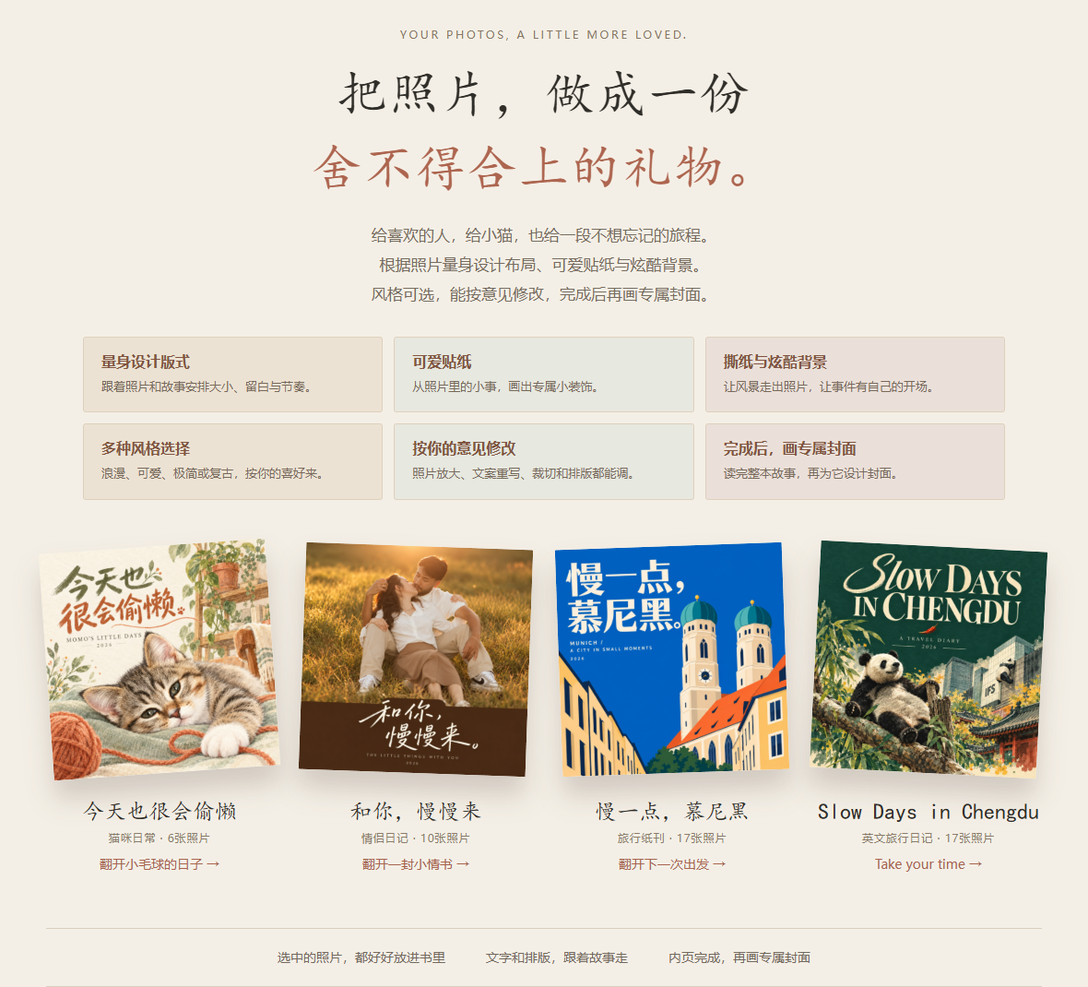
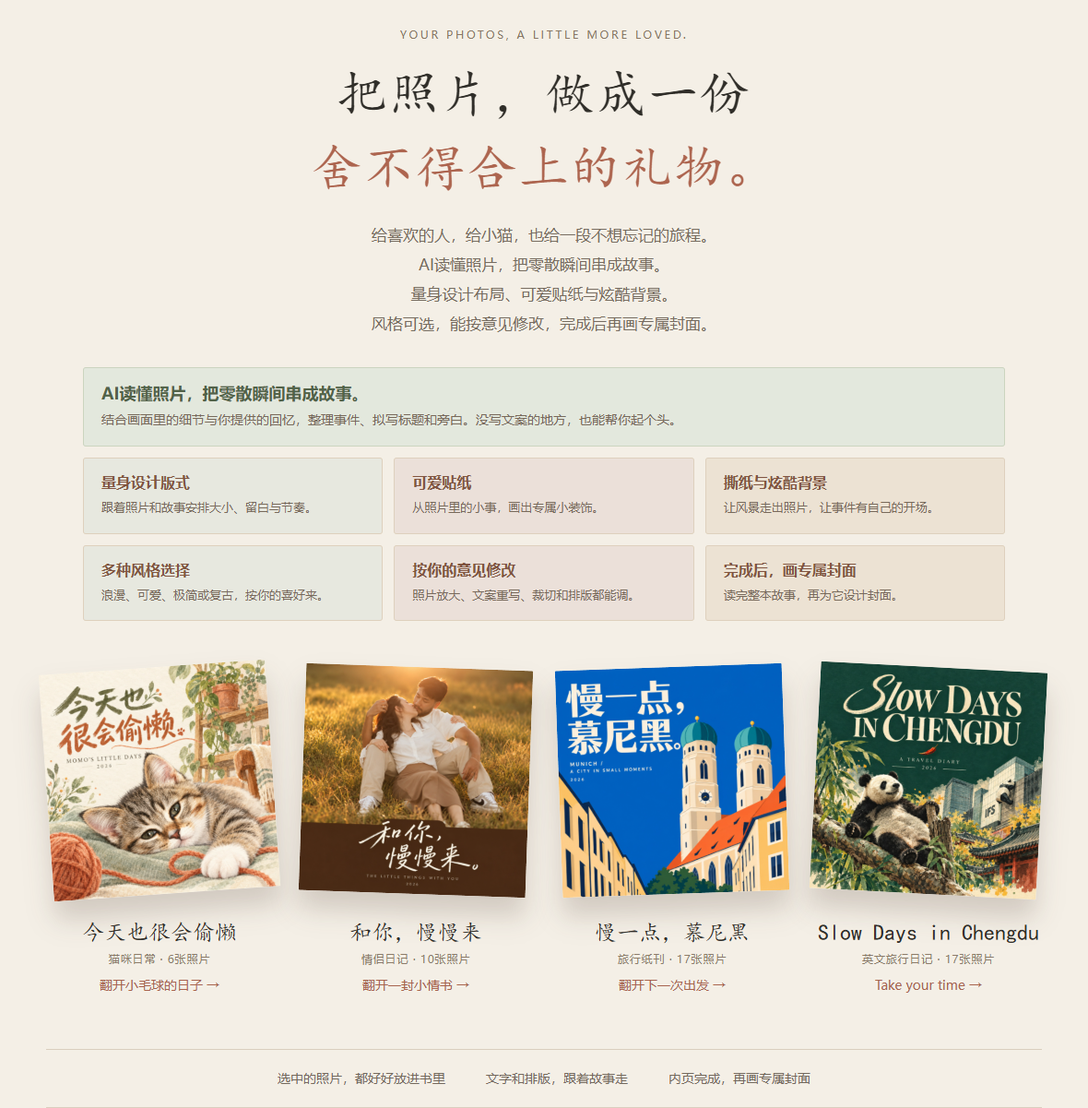
Highlight AI photo reading and story writing

diff --git a/docs/index.html b/docs/index.html
@@ -1,2 +1,2 @@
 <!doctype html><html lang="zh-CN"><head><meta charset="utf-8"><meta name="viewport" content="width=device-width,initial-scale=1"><title>Photo Book Studio · 照片进来，故事成册</title><style>
-*{box-sizing:border-box}html{scroll-behavior:smooth}body{margin:0;color:#302e29;background:#f4efe6;font-family:system-ui,"Microsoft YaHei",sans-serif}a{color:inherit;text-decoration:none}header{max-width:1200px;margin:auto;padding:28px 30px;display:flex;justify-content:space-between;align-items:center;font-size:14px}.brand{font-family:Georgia,serif;font-size:21px;letter-spacing:.025em}.nav{display:flex;gap:26px}.hero{max-width:1180px;margin:auto;padding:30px 28px 0;text-align:center}.eyebrow{font-size:12px;letter-spacing:.22em;color:#887663}.hero h1{font-family:"KaiTi","STKaiti",serif;font-size:clamp(34px,4vw,55px);font-weight:500;line-height:1.45;letter-spacing:.02em;margin:17px 0}.hero h1 em{font-style:normal;color:#ad654f}.hero p{font-size:17px;line-height:1.9;color:#766c60;margin:0}.shelf{display:grid;grid-template-columns:repeat(4,1fr);gap:32px;max-width:1140px;margin:50px auto 0;padding:0 22px 24px}.book{position:relative;transition:transform .3s}.book:hover{transform:translateY(-10px)}.book img{display:block;width:100%;aspect-ratio:1;object-fit:cover;box-shadow:0 20px 28px #47342933;border-radius:1px}.book:nth-child(1) img{transform:rotate(-4deg)}.book:nth-child(2) img{transform:rotate(2deg)}.book:nth-child(3) img{transform:rotate(-2deg)}.book:nth-child(4) img{transform:rotate(3deg)}.book h2{font-family:"KaiTi","STKaiti",serif;font-size:24px;font-weight:500;margin:28px 0 8px}.book small{display:block;color:#8b7b6a;font-size:12px;letter-spacing:.07em}.book .open{display:inline-block;font-size:14px;color:#a7634e;margin-top:12px}.statement{max-width:1080px;margin:36px auto 0;padding:22px 15px;border-top:1px solid #dacebe;border-bottom:1px solid #dacebe;display:flex;justify-content:center;gap:44px;font-size:14px;color:#73695d}.section{max-width:1160px;margin:88px auto;padding:0 28px}.section h2{font-family:"KaiTi","STKaiti",serif;font-weight:500;font-size:34px;line-height:1.5;margin:0 0 12px}.section p{color:#817264;line-height:1.9;margin:0 0 30px}.spread{width:100%;display:block;box-shadow:0 15px 40px #4e3e2b18;margin:24px 0 12px}.caption{font-size:13px;color:#8c7c69}.effects{display:grid;grid-template-columns:repeat(4,1fr);gap:20px}.effect{padding:12px;background:#eee4d6;border:1px solid #e2d6c5}.effect img{width:100%;aspect-ratio:1;object-fit:contain;display:block}.effect h3{font-size:16px;font-weight:500;margin:16px 5px 6px}.effect small{font-family:Georgia,serif;color:#88705c;font-size:12px;margin:0 5px}.start{text-align:center;background:#e9dfd0;padding:45px 20px;border-radius:2px}.start code{display:block;max-width:800px;margin:24px auto;background:#f6f0e7;border:1px solid #d4c5b4;padding:20px;font-family:inherit;font-size:20px;line-height:1.7}.buttons{display:flex;justify-content:center;gap:16px}.button{padding:13px 24px;border:1px solid #8e6a56;border-radius:30px;color:#805a43;font-size:14px}.button.primary{background:#8e5e49;color:#fff7ee;border-color:#8e5e49}footer{max-width:1060px;margin:60px auto 0;padding:0 28px 35px;color:#8a7b6c;font-size:12px;line-height:1.9;text-align:center}a:focus-visible{outline:2px solid #b76b52;outline-offset:5px}@media(max-width:760px){header{padding:22px 20px}.nav{gap:16px;font-size:12px}.shelf{grid-template-columns:repeat(2,1fr);gap:30px 24px;margin-top:35px;padding:0 8px}.book h2{font-size:16px;margin-top:20px}.book small{font-size:10px;letter-spacing:0}.book .open{font-size:12px}.statement{gap:14px;flex-wrap:wrap;font-size:12px}.section{margin:58px auto;padding:0 18px}.effects{grid-template-columns:repeat(2,1fr);gap:12px}.hero{padding:20px 18px 0}.hero p{font-size:14px}.start code{font-size:16px}.buttons{flex-wrap:wrap}}.features{display:grid;grid-template-columns:repeat(3,1fr);gap:12px;max-width:1000px;margin:30px auto 0;text-align:left}.feature{background:#ece2d3;border:1px solid #ded0bd;padding:16px 19px;border-radius:3px}.feature strong{display:block;font-size:16px;font-weight:600;color:#805440;margin-bottom:6px}.feature span{font-size:13px;color:#77695a;line-height:1.7}.features .feature:nth-child(2),.features .feature:nth-child(5){background:#e7e8df}.features .feature:nth-child(3),.features .feature:nth-child(6){background:#ebe0d9}@media(max-width:760px){.features{grid-template-columns:repeat(2,1fr);gap:9px;margin-top:24px}.feature{padding:13px 12px}.feature strong{font-size:14px}.feature span{font-size:12px}}</style></head><body><header><a class="brand" href="index.html">Photo Book Studio</a><nav class="nav"><a href="#books">看相册</a><a href="#effects">看创意</a><a href="https://github.com/strivekboy-coder/photo-book-studio">GitHub ↗</a></nav></header><main><section class="hero" id="books"><div class="eyebrow">YOUR PHOTOS, A LITTLE MORE LOVED.</div><h1>把照片，做成一份<br><em>舍不得合上的礼物。</em></h1><p>给喜欢的人，给小猫，也给一段不想忘记的旅程。<br>根据照片量身设计布局、可爱贴纸与炫酷背景。<br>风格可选，能按意见修改，完成后再画专属封面。</p><div class="features" aria-label="Photo Book Studio 的六个特色"><div class="feature"><strong>量身设计版式</strong><span>跟着照片和故事安排大小、留白与节奏。</span></div><div class="feature"><strong>可爱贴纸</strong><span>从照片里的小事，画出专属小装饰。</span></div><div class="feature"><strong>撕纸与炫酷背景</strong><span>让风景走出照片，让事件有自己的开场。</span></div><div class="feature"><strong>多种风格选择</strong><span>浪漫、可爱、极简或复古，按你的喜好来。</span></div><div class="feature"><strong>按你的意见修改</strong><span>照片放大、文案重写、裁切和排版都能调。</span></div><div class="feature"><strong>完成后，画专属封面</strong><span>读完整本故事，再为它设计封面。</span></div></div><div class="shelf"><a class="book" href="showcase/cat/index.html"><img src="showcase/cat/cover.jpg" alt="今天也很会偷懒：猫咪相册封面"><h2>今天也很会偷懒</h2><small>猫咪日常 · 6张照片</small><span class="open">翻开小毛球的日子 →</span></a><a class="book" href="showcase/couple/index.html"><img src="showcase/couple/cover.jpg" alt="和你慢慢来：情侣相册封面"><h2>和你，慢慢来</h2><small>情侣日记 · 10张照片</small><span class="open">翻开一封小情书 →</span></a><a class="book" href="showcase/munich/index.html"><img src="showcase/munich/cover.jpg" alt="慢一点慕尼黑：旅行相册封面"><h2>慢一点，慕尼黑</h2><small>旅行纸刊 · 17张照片</small><span class="open">翻开下一次出发 →</span></a><a class="book" href="showcase/chengdu/index.html"><img src="showcase/chengdu/cover.jpg" alt="Slow Days in Chengdu：英文成都旅行日记封面"><h2>Slow Days in Chengdu</h2><small>英文旅行日记 · 17张照片</small><span class="open">Take your time →</span></a></div><div class="statement"><span>选中的照片，都好好放进书里</span><span>文字和排版，跟着故事走</span><span>内页完成，再画专属封面</span></div></section><section class="section"><div class="eyebrow">LITTLE DAYS, BEAUTIFULLY KEPT.</div><h2>有大图，也有小小的日常。</h2><p>留白、竖排、拼贴、旁白和手绘贴纸，让每一段故事有自己的表情。</p><a href="showcase/cat/index.html"><img class="spread" src="showcase/cat/spread-03.jpg" alt="猫咪日常的照片、批注和贴纸排版" loading="lazy"></a><div class="caption">一个哈欠，一次巡逻，也值得认真留一页。</div><a href="showcase/couple/index.html"><img class="spread" src="showcase/couple/spread-04.jpg" alt="情侣日常：回家的路和金色拥抱" loading="lazy"></a><div class="caption">一起坐车、一起发呆，把普通的日子写成喜欢的样子。</div></section><section class="section" id="effects"><div class="eyebrow">FOUR WAYS TO KEEP A FEELING.</div><h2>照片之外，还能留住一点感觉。</h2><p>只在合适的地方，加一页特别的。四种创意路线，已经用在上面的相册里。</p><div class="effects"><a class="effect" href="showcase/cat/index.html?page=1&amp;side=right"><img src="showcase/effects/minimal.jpg" alt="极简纸刊：Busy doing nothing" loading="lazy"><h3>给一个哈欠留白</h3><small>Minimal Zine Poster</small></a><a class="effect" href="showcase/couple/index.html?page=2&amp;side=right"><img src="showcase/effects/editorial.jpg" alt="忠实照片加抽象记忆面板" loading="lazy"><h3>把牵手变成记忆</h3><small>Photo Abstract Editorial</small></a><a class="effect" href="showcase/munich/index.html?page=4&amp;side=right"><img src="showcase/effects/gathered.jpg" alt="冲浪照片和撕纸插画结构" loading="lazy"><h3>让风景走出照片</h3><small>Gathered Scenes</small></a><a class="effect" href="showcase/munich/index.html?page=6&amp;side=right"><img src="showcase/effects/postcard.jpg" alt="照片衍生双面旅行明信片" loading="lazy"><h3>寄给下一次出发</h3><small>Photo to Zine Postcard</small></a></div></section><section class="section"><a href="showcase/munich/index.html"><img class="spread" src="showcase/munich/spread-05.jpg" alt="慕尼黑冲浪原照与撕纸插画相邻展示" loading="lazy"></a><div class="caption">原照留下真实，撕纸和插画把河流接着画下去。</div></section><section class="section"><a href="showcase/chengdu/index.html"><img class="spread" src="showcase/chengdu/spread-04.jpg" alt="成都英文旅行日记：熊猫原照与撕纸插画" loading="lazy"></a><div class="caption">No hurry here. 同一个skill，也能写一本英文旅行日记。</div></section><section class="section"><div class="eyebrow">BACKGROUNDS THAT BELONG TO THE STORY.</div><h2>照片可以变成背景，心里话也有位置。</h2><p>特别的事件，用一页撕纸背景打开。想写长一点，就留一页与故事有关的信纸。</p><a href="showcase/munich/index.html?page=3"><img class="spread" src="showcase/munich/spread-04.jpg" alt="冲浪事件照片变成整页撕纸背景" loading="lazy"></a><a href="showcase/chengdu/index.html?page=7"><img class="spread" src="showcase/chengdu/spread-08.jpg" alt="成都旅行故事背景上的长文结尾" loading="lazy"></a></section><section class="section"><div class="eyebrow">FROM A REAL PHOTO BOOK.</div><h2>真实的日子，也值得这样留住。</h2><p>作者制作相册的六个选页：背影、风景、街头碎片与一封寄回家的信。</p><a href="showcase/real-life/index.html?page=3"><img class="spread" src="showcase/real-life/spread-15.jpg" alt="真实相册第15跨页：阿尔卑斯与撕纸插画" loading="lazy"></a><a href="showcase/real-life/index.html?page=4"><img class="spread" src="showcase/real-life/spread-55.jpg" alt="真实相册第55跨页：威尼斯街头拼贴" loading="lazy"></a><a class="button" href="showcase/real-life/index.html">翻看六个真实片段 →</a></section><section class="section start"><h2>你的下一本，会是什么故事？</h2><p>安装Skill，把照片和几句描述交给Codex。从一个小样开始，慢慢做完整本。</p><code>“使用 $photo-book-studio，<br>我想做一本关于我们这一年的相册。”</code><div class="buttons"><a class="button primary" href="https://github.com/strivekboy-coder/photo-book-studio/releases">下载 Skill</a><a class="button" href="https://github.com/strivekboy-coder/photo-book-studio#开始做你的一本">查看安装步骤</a></div></section><section class="section" style="margin-top:35px;margin-bottom:40px"><p style="font-size:14px">小Tips：iPhone传到Windows或Linux，可以两边安装 <a style="text-decoration:underline" href="https://localsend.org/download">LocalSend</a>，连接同一局域网传照片。想写较长的开篇或结语，告诉模型预留写信页，再按故事画背景。</p></section></main><footer>四本主题示例为授权图库素材与虚构文案制作的效果展示；另有作者真实相册的六个匿名选页。照片来自Unsplash（含授权素材）及用户提供的授权图库，AI插画与封面由image生成，真实选页经作者授权公开。图片与相册成品不属于代码的MIT许可范围，未经许可请勿转载。<br><a href="https://github.com/strivekboy-coder/photo-book-studio/blob/codex/initial-release/examples/README.md">素材来源与许可说明</a> · Built with Photo Book Studio</footer></body></html>
+*{box-sizing:border-box}html{scroll-behavior:smooth}body{margin:0;color:#302e29;background:#f4efe6;font-family:system-ui,"Microsoft YaHei",sans-serif}a{color:inherit;text-decoration:none}header{max-width:1200px;margin:auto;padding:28px 30px;display:flex;justify-content:space-between;align-items:center;font-size:14px}.brand{font-family:Georgia,serif;font-size:21px;letter-spacing:.025em}.nav{display:flex;gap:26px}.hero{max-width:1180px;margin:auto;padding:30px 28px 0;text-align:center}.eyebrow{font-size:12px;letter-spacing:.22em;color:#887663}.hero h1{font-family:"KaiTi","STKaiti",serif;font-size:clamp(34px,4vw,55px);font-weight:500;line-height:1.45;letter-spacing:.02em;margin:17px 0}.hero h1 em{font-style:normal;color:#ad654f}.hero p{font-size:17px;line-height:1.9;color:#766c60;margin:0}.shelf{display:grid;grid-template-columns:repeat(4,1fr);gap:32px;max-width:1140px;margin:50px auto 0;padding:0 22px 24px}.book{position:relative;transition:transform .3s}.book:hover{transform:translateY(-10px)}.book img{display:block;width:100%;aspect-ratio:1;object-fit:cover;box-shadow:0 20px 28px #47342933;border-radius:1px}.book:nth-child(1) img{transform:rotate(-4deg)}.book:nth-child(2) img{transform:rotate(2deg)}.book:nth-child(3) img{transform:rotate(-2deg)}.book:nth-child(4) img{transform:rotate(3deg)}.book h2{font-family:"KaiTi","STKaiti",serif;font-size:24px;font-weight:500;margin:28px 0 8px}.book small{display:block;color:#8b7b6a;font-size:12px;letter-spacing:.07em}.book .open{display:inline-block;font-size:14px;color:#a7634e;margin-top:12px}.statement{max-width:1080px;margin:36px auto 0;padding:22px 15px;border-top:1px solid #dacebe;border-bottom:1px solid #dacebe;display:flex;justify-content:center;gap:44px;font-size:14px;color:#73695d}.section{max-width:1160px;margin:88px auto;padding:0 28px}.section h2{font-family:"KaiTi","STKaiti",serif;font-weight:500;font-size:34px;line-height:1.5;margin:0 0 12px}.section p{color:#817264;line-height:1.9;margin:0 0 30px}.spread{width:100%;display:block;box-shadow:0 15px 40px #4e3e2b18;margin:24px 0 12px}.caption{font-size:13px;color:#8c7c69}.effects{display:grid;grid-template-columns:repeat(4,1fr);gap:20px}.effect{padding:12px;background:#eee4d6;border:1px solid #e2d6c5}.effect img{width:100%;aspect-ratio:1;object-fit:contain;display:block}.effect h3{font-size:16px;font-weight:500;margin:16px 5px 6px}.effect small{font-family:Georgia,serif;color:#88705c;font-size:12px;margin:0 5px}.start{text-align:center;background:#e9dfd0;padding:45px 20px;border-radius:2px}.start code{display:block;max-width:800px;margin:24px auto;background:#f6f0e7;border:1px solid #d4c5b4;padding:20px;font-family:inherit;font-size:20px;line-height:1.7}.buttons{display:flex;justify-content:center;gap:16px}.button{padding:13px 24px;border:1px solid #8e6a56;border-radius:30px;color:#805a43;font-size:14px}.button.primary{background:#8e5e49;color:#fff7ee;border-color:#8e5e49}footer{max-width:1060px;margin:60px auto 0;padding:0 28px 35px;color:#8a7b6c;font-size:12px;line-height:1.9;text-align:center}a:focus-visible{outline:2px solid #b76b52;outline-offset:5px}@media(max-width:760px){header{padding:22px 20px}.nav{gap:16px;font-size:12px}.shelf{grid-template-columns:repeat(2,1fr);gap:30px 24px;margin-top:35px;padding:0 8px}.book h2{font-size:16px;margin-top:20px}.book small{font-size:10px;letter-spacing:0}.book .open{font-size:12px}.statement{gap:14px;flex-wrap:wrap;font-size:12px}.section{margin:58px auto;padding:0 18px}.effects{grid-template-columns:repeat(2,1fr);gap:12px}.hero{padding:20px 18px 0}.hero p{font-size:14px}.start code{font-size:16px}.buttons{flex-wrap:wrap}}.features{display:grid;grid-template-columns:repeat(3,1fr);gap:12px;max-width:1000px;margin:30px auto 0;text-align:left}.feature{background:#ece2d3;border:1px solid #ded0bd;padding:16px 19px;border-radius:3px}.feature strong{display:block;font-size:16px;font-weight:600;color:#805440;margin-bottom:6px}.feature span{font-size:13px;color:#77695a;line-height:1.7}.features .feature:nth-child(2),.features .feature:nth-child(5){background:#e7e8df}.features .feature:nth-child(3),.features .feature:nth-child(6){background:#ebe0d9}@media(max-width:760px){.features{grid-template-columns:repeat(2,1fr);gap:9px;margin-top:24px}.feature{padding:13px 12px}.feature strong{font-size:14px}.feature span{font-size:12px}}.story-feature{grid-column:1/-1;background:#e3e8dd;border-color:#cbd4bf}.story-feature strong{font-size:18px;color:#516248}.story-feature span{font-size:14px}@media(max-width:760px){.story-feature strong{font-size:16px}.story-feature span{font-size:12px}}</style></head><body><header><a class="brand" href="index.html">Photo Book Studio</a><nav class="nav"><a href="#books">看相册</a><a href="#effects">看创意</a><a href="https://github.com/strivekboy-coder/photo-book-studio">GitHub ↗</a></nav></header><main><section class="hero" id="books"><div class="eyebrow">YOUR PHOTOS, A LITTLE MORE LOVED.</div><h1>把照片，做成一份<br><em>舍不得合上的礼物。</em></h1><p>给喜欢的人，给小猫，也给一段不想忘记的旅程。<br>AI读懂照片，把零散瞬间串成故事。<br>量身设计布局、可爱贴纸与炫酷背景。<br>风格可选，能按意见修改，完成后再画专属封面。</p><div class="features" aria-label="Photo Book Studio 的七个特色"><div class="feature story-feature"><strong>AI读懂照片，把零散瞬间串成故事。</strong><span>结合画面里的细节与你提供的回忆，整理事件、拟写标题和旁白。没写文案的地方，也能帮你起个头。</span></div><div class="feature"><strong>量身设计版式</strong><span>跟着照片和故事安排大小、留白与节奏。</span></div><div class="feature"><strong>可爱贴纸</strong><span>从照片里的小事，画出专属小装饰。</span></div><div class="feature"><strong>撕纸与炫酷背景</strong><span>让风景走出照片，让事件有自己的开场。</span></div><div class="feature"><strong>多种风格选择</strong><span>浪漫、可爱、极简或复古，按你的喜好来。</span></div><div class="feature"><strong>按你的意见修改</strong><span>照片放大、文案重写、裁切和排版都能调。</span></div><div class="feature"><strong>完成后，画专属封面</strong><span>读完整本故事，再为它设计封面。</span></div></div><div class="shelf"><a class="book" href="showcase/cat/index.html"><img src="showcase/cat/cover.jpg" alt="今天也很会偷懒：猫咪相册封面"><h2>今天也很会偷懒</h2><small>猫咪日常 · 6张照片</small><span class="open">翻开小毛球的日子 →</span></a><a class="book" href="showcase/couple/index.html"><img src="showcase/couple/cover.jpg" alt="和你慢慢来：情侣相册封面"><h2>和你，慢慢来</h2><small>情侣日记 · 10张照片</small><span class="open">翻开一封小情书 →</span></a><a class="book" href="showcase/munich/index.html"><img src="showcase/munich/cover.jpg" alt="慢一点慕尼黑：旅行相册封面"><h2>慢一点，慕尼黑</h2><small>旅行纸刊 · 17张照片</small><span class="open">翻开下一次出发 →</span></a><a class="book" href="showcase/chengdu/index.html"><img src="showcase/chengdu/cover.jpg" alt="Slow Days in Chengdu：英文成都旅行日记封面"><h2>Slow Days in Chengdu</h2><small>英文旅行日记 · 17张照片</small><span class="open">Take your time →</span></a></div><div class="statement"><span>选中的照片，都好好放进书里</span><span>文字和排版，跟着故事走</span><span>内页完成，再画专属封面</span></div></section><section class="section"><div class="eyebrow">LITTLE DAYS, BEAUTIFULLY KEPT.</div><h2>有大图，也有小小的日常。</h2><p>留白、竖排、拼贴、旁白和手绘贴纸，让每一段故事有自己的表情。</p><a href="showcase/cat/index.html"><img class="spread" src="showcase/cat/spread-03.jpg" alt="猫咪日常的照片、批注和贴纸排版" loading="lazy"></a><div class="caption">一个哈欠，一次巡逻，也值得认真留一页。</div><a href="showcase/couple/index.html"><img class="spread" src="showcase/couple/spread-04.jpg" alt="情侣日常：回家的路和金色拥抱" loading="lazy"></a><div class="caption">一起坐车、一起发呆，把普通的日子写成喜欢的样子。</div></section><section class="section" id="effects"><div class="eyebrow">FOUR WAYS TO KEEP A FEELING.</div><h2>照片之外，还能留住一点感觉。</h2><p>只在合适的地方，加一页特别的。四种创意路线，已经用在上面的相册里。</p><div class="effects"><a class="effect" href="showcase/cat/index.html?page=1&amp;side=right"><img src="showcase/effects/minimal.jpg" alt="极简纸刊：Busy doing nothing" loading="lazy"><h3>给一个哈欠留白</h3><small>Minimal Zine Poster</small></a><a class="effect" href="showcase/couple/index.html?page=2&amp;side=right"><img src="showcase/effects/editorial.jpg" alt="忠实照片加抽象记忆面板" loading="lazy"><h3>把牵手变成记忆</h3><small>Photo Abstract Editorial</small></a><a class="effect" href="showcase/munich/index.html?page=4&amp;side=right"><img src="showcase/effects/gathered.jpg" alt="冲浪照片和撕纸插画结构" loading="lazy"><h3>让风景走出照片</h3><small>Gathered Scenes</small></a><a class="effect" href="showcase/munich/index.html?page=6&amp;side=right"><img src="showcase/effects/postcard.jpg" alt="照片衍生双面旅行明信片" loading="lazy"><h3>寄给下一次出发</h3><small>Photo to Zine Postcard</small></a></div></section><section class="section"><a href="showcase/munich/index.html"><img class="spread" src="showcase/munich/spread-05.jpg" alt="慕尼黑冲浪原照与撕纸插画相邻展示" loading="lazy"></a><div class="caption">原照留下真实，撕纸和插画把河流接着画下去。</div></section><section class="section"><a href="showcase/chengdu/index.html"><img class="spread" src="showcase/chengdu/spread-04.jpg" alt="成都英文旅行日记：熊猫原照与撕纸插画" loading="lazy"></a><div class="caption">No hurry here. 同一个skill，也能写一本英文旅行日记。</div></section><section class="section"><div class="eyebrow">BACKGROUNDS THAT BELONG TO THE STORY.</div><h2>照片可以变成背景，心里话也有位置。</h2><p>特别的事件，用一页撕纸背景打开。想写长一点，就留一页与故事有关的信纸。</p><a href="showcase/munich/index.html?page=3"><img class="spread" src="showcase/munich/spread-04.jpg" alt="冲浪事件照片变成整页撕纸背景" loading="lazy"></a><a href="showcase/chengdu/index.html?page=7"><img class="spread" src="showcase/chengdu/spread-08.jpg" alt="成都旅行故事背景上的长文结尾" loading="lazy"></a></section><section class="section"><div class="eyebrow">FROM A REAL PHOTO BOOK.</div><h2>真实的日子，也值得这样留住。</h2><p>作者制作相册的六个选页：背影、风景、街头碎片与一封寄回家的信。</p><a href="showcase/real-life/index.html?page=3"><img class="spread" src="showcase/real-life/spread-15.jpg" alt="真实相册第15跨页：阿尔卑斯与撕纸插画" loading="lazy"></a><a href="showcase/real-life/index.html?page=4"><img class="spread" src="showcase/real-life/spread-55.jpg" alt="真实相册第55跨页：威尼斯街头拼贴" loading="lazy"></a><a class="button" href="showcase/real-life/index.html">翻看六个真实片段 →</a></section><section class="section start"><h2>你的下一本，会是什么故事？</h2><p>安装Skill，把照片和几句描述交给Codex。从一个小样开始，慢慢做完整本。</p><code>“使用 $photo-book-studio，<br>我想做一本关于我们这一年的相册。”</code><div class="buttons"><a class="button primary" href="https://github.com/strivekboy-coder/photo-book-studio/releases">下载 Skill</a><a class="button" href="https://github.com/strivekboy-coder/photo-book-studio#开始做你的一本">查看安装步骤</a></div></section><section class="section" style="margin-top:35px;margin-bottom:40px"><p style="font-size:14px">小Tips：iPhone传到Windows或Linux，可以两边安装 <a style="text-decoration:underline" href="https://localsend.org/download">LocalSend</a>，连接同一局域网传照片。想写较长的开篇或结语，告诉模型预留写信页，再按故事画背景。</p></section></main><footer>四本主题示例为授权图库素材与虚构文案制作的效果展示；另有作者真实相册的六个匿名选页。照片来自Unsplash（含授权素材）及用户提供的授权图库，AI插画与封面由image生成，真实选页经作者授权公开。图片与相册成品不属于代码的MIT许可范围，未经许可请勿转载。<br><a href="https://github.com/strivekboy-coder/photo-book-studio/blob/codex/initial-release/examples/README.md">素材来源与许可说明</a> · Built with Photo Book Studio</footer></body></html>

diff --git a/README.md b/README.md
@@ -2,7 +2,7 @@
 
 ### 照片进来，故事成册。
 
-根据你的照片量身设计模板与布局，配上可爱贴纸、炫酷背景和不同风格的文字。你可以继续提意见修改；内页完成后，再根据整本相册的内容用image制作专属封面。
+AI读懂照片，把零散瞬间串成故事。结合画面里的细节与你提供的描述，整理事件、拟写文案，再根据你的照片量身设计模板与布局，配上可爱贴纸、炫酷背景和不同风格的文字。你可以继续提意见修改；内页完成后，再根据整本相册的内容用image制作专属封面。
 
 [![四本示例相册的专属封面](docs/showcase-hero.png)](https://strivekboy-coder.github.io/photo-book-studio/)
 
@@ -21,6 +21,7 @@
 
 ## 根据你的照片，量身做一本
 
+- **AI读懂照片，把零散瞬间串成故事。** 结合人物、场景与小细节，以及你提供的回忆，整理事件、拟写标题和旁白；没写文案的地方，也能帮你起个头。
 - **模板与布局量身设计。** 根据照片的方向、色彩、人物与故事，选择、改造或新建合适的版式。
 - **可爱贴纸，来自照片里的小事。** 小猫、食物、交通工具和旅行元素，和回忆放在一起。
 - **炫酷背景，也有留白。** 事件照片可以变成撕纸背景，风景和插画接着画下去。
